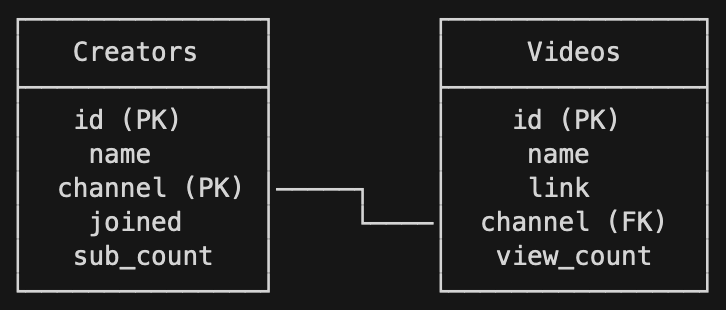
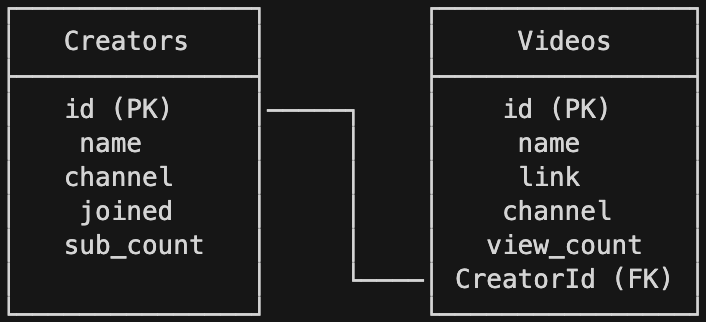
fix: update image, change text to CreatorId

Changed region(s): [[0.4986, 0.0, 0.9972, 0.9871], [0.0, 0.0, 0.5297, 0.9871]]

diff --git a/readme.md b/readme.md
@@ -45,15 +45,15 @@ Contohnya bagaimana ?
 
 1-to-1  
 ![One to One](assets/one-to-one.png "One to One")
-<!-- ```
+<!--
 ┌────────────┐          ┌────────────────┐
 │   Orangs   │          │   Profils      │
 ├────────────┤          ├────────────────┤
 │   id (PK)  │─────┐    │   id (PK)      │
-│   name     │     └────│  orang_id (FK) │
-│   pass     │          │  nama_profil   │
+│   name     │     │    │  nama_profil   │
+│   pass     │     └────│  OrangId (FK)  │
 └────────────┘          └────────────────┘
-``` -->
+-->
 
 Dalam `sequelize` punya `Model`, berarti kita harus:
 * Mendefinisikan bahwa `Orang` memiliki sebuah `Profil`
@@ -74,7 +74,7 @@ mendefinisikan association pada method associate yang ada.
     //   e.g. OrangId pada Profils
     Orang.hasOne(Profil, {
       sourceKey: 'id',
-      foreignKey: 'orang_id'
+      foreignKey: 'OrangId'
     });
   }
 ```
@@ -90,7 +90,7 @@ mendefinisikan association pada method associate yang ada.
     //   by default akan melihat apakah pada Source memiliki TargetId
     //   e.g. OrangId pada Profils
     Profil.belongsTo(Orang, {
-      foreignKey: 'orang_id',
+      foreignKey: 'OrangId',
       targetKey: 'id'
     });
   }
@@ -98,17 +98,18 @@ mendefinisikan association pada method associate yang ada.
 
 1-to-n  
 ![One to Many](assets/one-to-many.png "One to Many")
-<!-- ```
+<!--
 ┌───────────────┐          ┌────────────────┐
 │   Creators    │          │     Videos     │
 ├───────────────┤          ├────────────────┤
-│   id (PK)     │          │    id (PK)     │
-│    name       │          │     name       │
-│  channel (PK) │─────┐    │     link       │
-│    joined     │     └────│  channel (FK)  │
-│   sub_count   │          │   view_count   │
+│   id (PK)     │─────┐    │    id (PK)     │
+│    name       │     │    │     name       │
+│   channel     │     │    │     link       │
+│    joined     │     │    │    channel     │
+│   sub_count   │     │    │   view_count   │
+│               │     └────│ CreatorId (FK) │
 └───────────────┘          └────────────────┘
-``` -->
+-->
 
 Dalam `sequelize` punya `Model` ini, berarti kita harus:
 * Mendefinsikan bahwa `Creator` memiliki banyak `Video`
@@ -129,7 +130,7 @@ mendefinisikan association pada method associate yang ada.
     //   e.g. CreatorId pada Videos
     Creator.hasMany(models.Video, {
       sourceKey: 'channel',
-      foreignKey: 'channel'
+      foreignKey: 'OrangId'
     });
   }
 ```
@@ -145,7 +146,7 @@ mendefinisikan association pada method associate yang ada.
     //   by default akan melihat apakah pada Source memiliki TargetId
     //   e.g. CreatorId pada Videos
     Video.belongsTo(models.Creator, {
-      foreignKey: 'channel',
+      foreignKey: 'OrangId',
       targetKey: 'channel'
     });
   }
@@ -453,7 +454,7 @@ Modifikasi ini dapat dilihat pada kode di bawah:
       // define association here
       Creator.hasMany(models.Video, {
         sourceKey: 'channel',
-        foreignKey: 'channel'
+        foreignKey: 'CreatorId'
       });
     }
   };
@@ -465,7 +466,7 @@ Modifikasi ini dapat dilihat pada kode di bawah:
     static associate(models) {
       // define association here
       Video.belongsTo(models.Creator, {
-        foreignKey: 'channel',
+        foreignKey: 'CreatorId',
         targetKey: 'channel'
       });
     }
